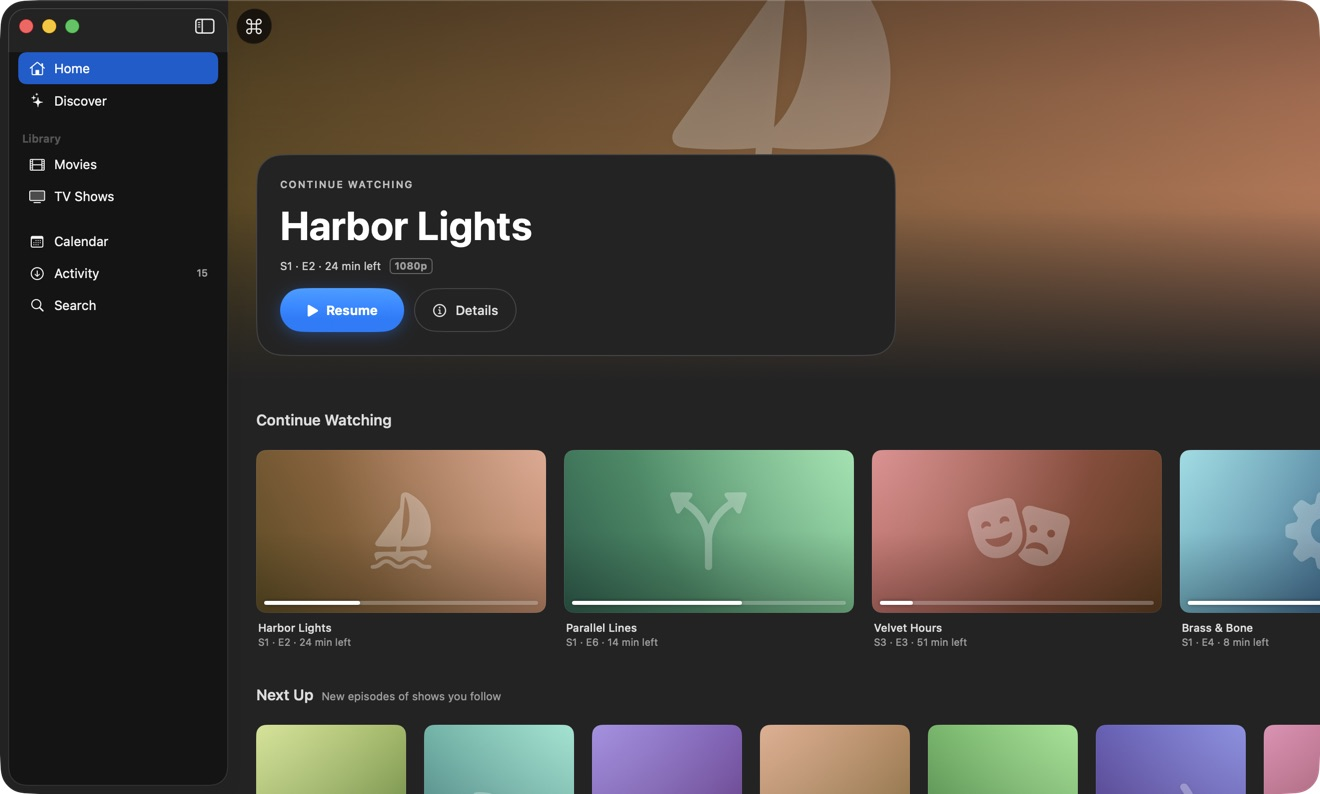
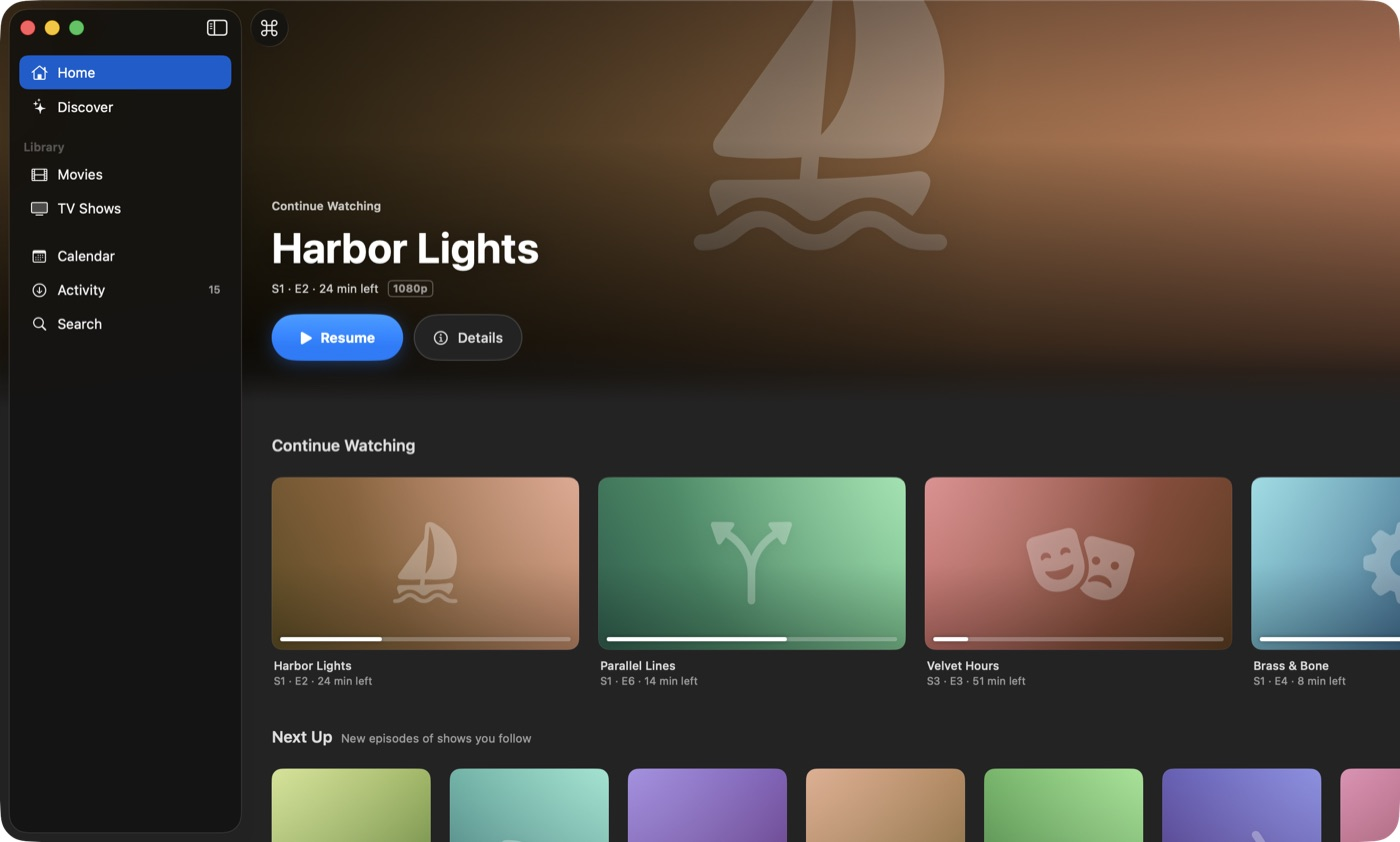
Fix sidebar title-bar band and hero text treatment
- Sidebar list no longer paints its own background, so the sidebar is one
  continuous surface under the traffic lights (soft scroll edge on macOS 26).
- Hero drops the opaque glass box; title, metadata and actions sit on the
  artwork over a legibility scrim, artwork extends under the sidebar glass,
  and light mode ends on a clean edge instead of a dark-to-white smear.
- Hero screens hide the toolbar edge effect instead of the window toolbar
  background globally.

diff --git a/Sources/MarqueeUI/Components/HeroHeader.swift b/Sources/MarqueeUI/Components/HeroHeader.swift
@@ -1,7 +1,8 @@
 import SwiftUI
 
-/// Full-bleed backdrop with a scrim into the window background and a glass overlay carrying the title,
-/// metadata and primary actions. Parallax is skipped under Reduce Motion.
+/// Full-bleed backdrop with the title, metadata and primary actions set directly on the artwork over a
+/// legibility scrim. On macOS 26 the artwork extends under the sidebar glass. Parallax is skipped under
+/// Reduce Motion.
 public struct HeroHeader<Actions: View>: View {
     private let title: String
     private let eyebrow: String?
@@ -14,6 +15,7 @@ public struct HeroHeader<Actions: View>: View {
 
     @ScaledMetric(relativeTo: .largeTitle) private var titleSize: CGFloat = 40
     @Environment(\.accessibilityReduceMotion) private var reduceMotion
+    @Environment(\.colorScheme) private var colorScheme
 
     public init(
         title: String, eyebrow: String? = nil, metadata: [String] = [], quality: Quality? = nil,
@@ -41,9 +43,10 @@ public struct HeroHeader<Actions: View>: View {
                     .frame(width: geo.size.width, height: height, alignment: .bottom)
                     .clipped()
                     .overlay(scrim)
+                    .extendingUnderSidebar()
                 panel
                     .padding(.horizontal, Tokens.Spacing.gutter)
-                    .padding(.bottom, Tokens.Spacing.l)
+                    .padding(.bottom, Tokens.Spacing.xl)
             }
         }
         .frame(height: height)
@@ -52,12 +55,20 @@ public struct HeroHeader<Actions: View>: View {
 
     private var scrim: some View {
         ZStack {
-            LinearGradient(colors: [.black.opacity(0.35), .clear], startPoint: .top, endPoint: .center)
+            LinearGradient(colors: [.black.opacity(0.3), .clear], startPoint: .top, endPoint: .init(x: 0.5, y: 0.35))
             LinearGradient(
-                stops: [
-                    .init(color: .clear, location: 0.55),
-                    .init(color: Color(nsColor: .windowBackgroundColor), location: 1),
-                ],
+                stops: [.init(color: .black.opacity(0.6), location: 0), .init(color: .clear, location: 0.65)],
+                startPoint: .leading, endPoint: .trailing
+            )
+            // Dark mode melts into the window; light mode keeps a clean edge (a dark-to-white fade smears).
+            LinearGradient(
+                stops: colorScheme == .dark
+                    ? [
+                        .init(color: .clear, location: 0.35),
+                        .init(color: .black.opacity(0.55), location: 0.85),
+                        .init(color: Color(nsColor: .windowBackgroundColor), location: 1),
+                    ]
+                    : [.init(color: .clear, location: 0.35), .init(color: .black.opacity(0.6), location: 1)],
                 startPoint: .top, endPoint: .bottom
             )
         }
@@ -65,23 +76,23 @@ public struct HeroHeader<Actions: View>: View {
     }
 
     private var panel: some View {
-        VStack(alignment: .leading, spacing: Tokens.Spacing.s + 2) {
+        VStack(alignment: .leading, spacing: Tokens.Spacing.s) {
             if let eyebrow {
-                Text(verbatim: eyebrow.uppercased())
-                    .font(.caption.weight(.semibold))
-                    .tracking(1.2)
-                    .foregroundStyle(.white.opacity(0.7))
+                Text(verbatim: eyebrow)
+                    .font(.subheadline.weight(.semibold))
+                    .foregroundStyle(.white.opacity(0.75))
             }
             Text(verbatim: title)
                 .font(.system(size: titleSize, weight: .bold))
                 .foregroundStyle(.white)
                 .lineLimit(2)
+                .shadow(color: .black.opacity(0.35), radius: 12, y: 2)
                 .accessibilityAddTraits(.isHeader)
             if !metadata.isEmpty || quality != nil {
                 HStack(spacing: Tokens.Spacing.s) {
                     Text(verbatim: metadata.joined(separator: "  ·  "))
                         .font(Tokens.Typography.metadata)
-                        .foregroundStyle(.white.opacity(0.78))
+                        .foregroundStyle(.white.opacity(0.8))
                     if let quality { QualityBadge(quality) }
                 }
             }
@@ -93,11 +104,20 @@ public struct HeroHeader<Actions: View>: View {
                     .frame(maxWidth: 560, alignment: .leading)
             }
             HStack(spacing: Tokens.Spacing.s + 2) { actions }
-                .padding(.top, 4)
+                .padding(.top, Tokens.Spacing.s)
         }
-        .padding(Tokens.Spacing.l)
-        .frame(maxWidth: 640, alignment: .leading)
-        .marqueeGlass(in: RoundedRectangle(cornerRadius: Tokens.Radius.xl, style: .continuous))
+        .frame(maxWidth: 620, alignment: .leading)
         .environment(\.colorScheme, .dark)
+    }
+}
+
+private extension View {
+    @ViewBuilder
+    func extendingUnderSidebar() -> some View {
+        if #available(macOS 26, *) {
+            backgroundExtensionEffect()
+        } else {
+            self
+        }
     }
 }

diff --git a/Sources/Marquee/RootView.swift b/Sources/Marquee/RootView.swift
@@ -97,6 +97,8 @@ struct SidebarView: View {
             }
         }
         .listStyle(.sidebar)
+        .scrollContentBackground(.hidden)
+        .softScrollEdge()
         .navigationSplitViewColumnWidth(min: 190, ideal: 220, max: 300)
         .accessibilityLabel(Text("Sidebar"))
     }
@@ -104,6 +106,28 @@ struct SidebarView: View {
     private func row(_ item: SidebarItem) -> some View {
         Label { Text(item.title) } icon: { Image(systemName: item.systemImage) }
             .tag(item)
+    }
+}
+
+extension View {
+    /// Screens that open with a full-bleed hero let the artwork run under the toolbar with no edge effect.
+    @ViewBuilder
+    func heroScrollEdge() -> some View {
+        if #available(macOS 26, *) {
+            toolbarBackground(.hidden, for: .windowToolbar).scrollEdgeEffectHidden(true, for: .top)
+        } else {
+            toolbarBackground(.hidden, for: .windowToolbar)
+        }
+    }
+
+    /// Keeps the sidebar one continuous glass surface instead of a separate title-bar band.
+    @ViewBuilder
+    func softScrollEdge() -> some View {
+        if #available(macOS 26, *) {
+            scrollEdgeEffectStyle(.soft, for: .top)
+        } else {
+            self
+        }
     }
 }
 

diff --git a/Sources/Marquee/Screens/HomeScreen.swift b/Sources/Marquee/Screens/HomeScreen.swift
@@ -46,7 +46,7 @@ struct HomeScreen: View {
             .padding(.bottom, Tokens.Spacing.xl)
         }
         .ignoresSafeArea(.container, edges: .top)
-        .toolbarBackground(.hidden, for: .windowToolbar)
+        .heroScrollEdge()
         .navigationTitle(Text("Home"))
         .toolbar(removing: .title)
         .followsLiveProgress()

diff --git a/Sources/Marquee/Screens/TitleDetailScreen.swift b/Sources/Marquee/Screens/TitleDetailScreen.swift
@@ -23,7 +23,7 @@ struct TitleDetailScreen: View {
             }
         }
         .navigationTitle(Text(verbatim: detail?.item.title ?? ""))
-        .toolbarBackground(.hidden, for: .windowToolbar)
+        .heroScrollEdge()
         .toolbar(removing: .title)
         .followsLiveProgress()
         .task(id: id) {

diff --git a/AGENTS.md b/AGENTS.md
@@ -26,5 +26,6 @@ Marquee (working title): native macOS app combining the *arr suite with a built-
 - Brief doc comments on public API; no comments narrating the obvious.
 
 ## Working style / feedback
+- 2026-10-09 UI bar is very high and the user checks it closely: every UI change must be verified by running the app and inspecting window screenshots (light + dark, scrolled states) before merge. Use stock macOS 26 chrome (sidebar, toolbar, scroll-edge effects); no toolbar-background hacks or heavy opaque panels over artwork.
 - 2026-10-09 Build mode: the main session acts as orchestrator, delegating to Sonnet 5.5 / Haiku 5.5 subagents at no more than `high` effort, and owns review, integration and quality.
 - 2026-10-09 User wants a complete scope first, then build; prefers decisions made with a recommendation rather than long option lists.
